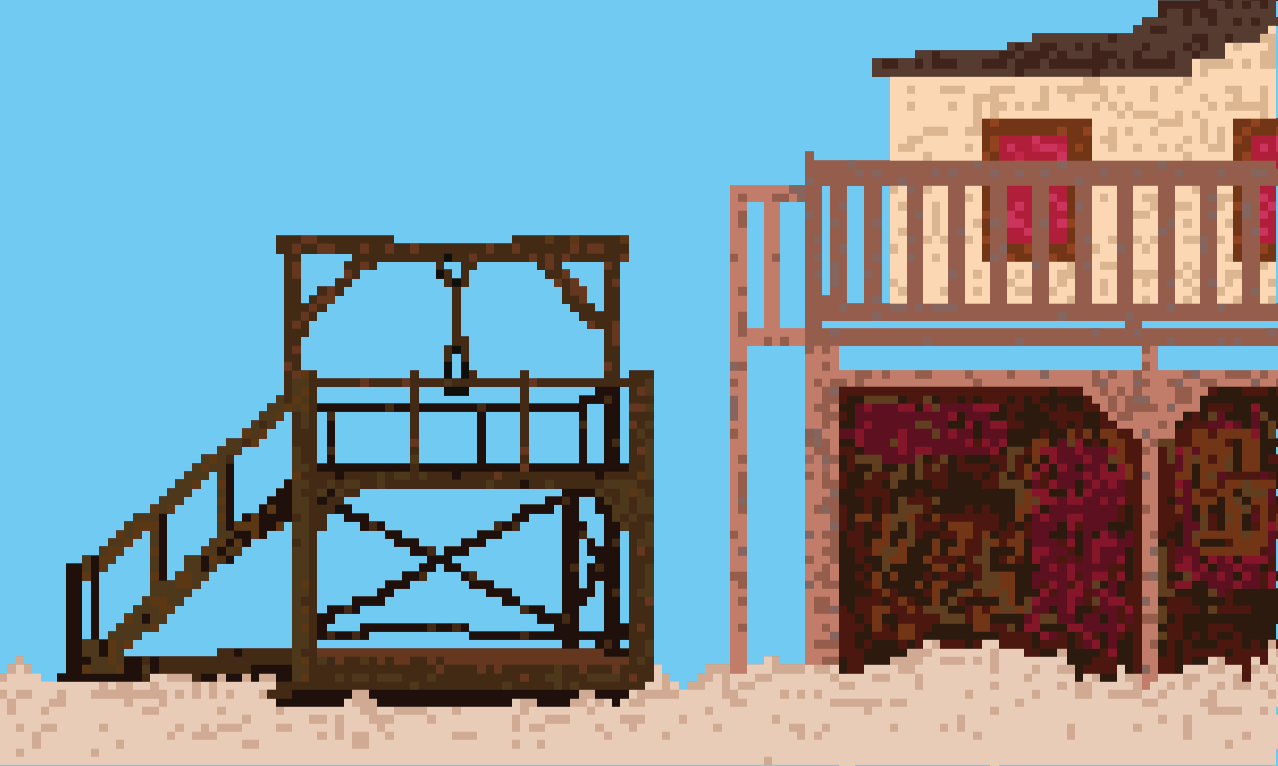
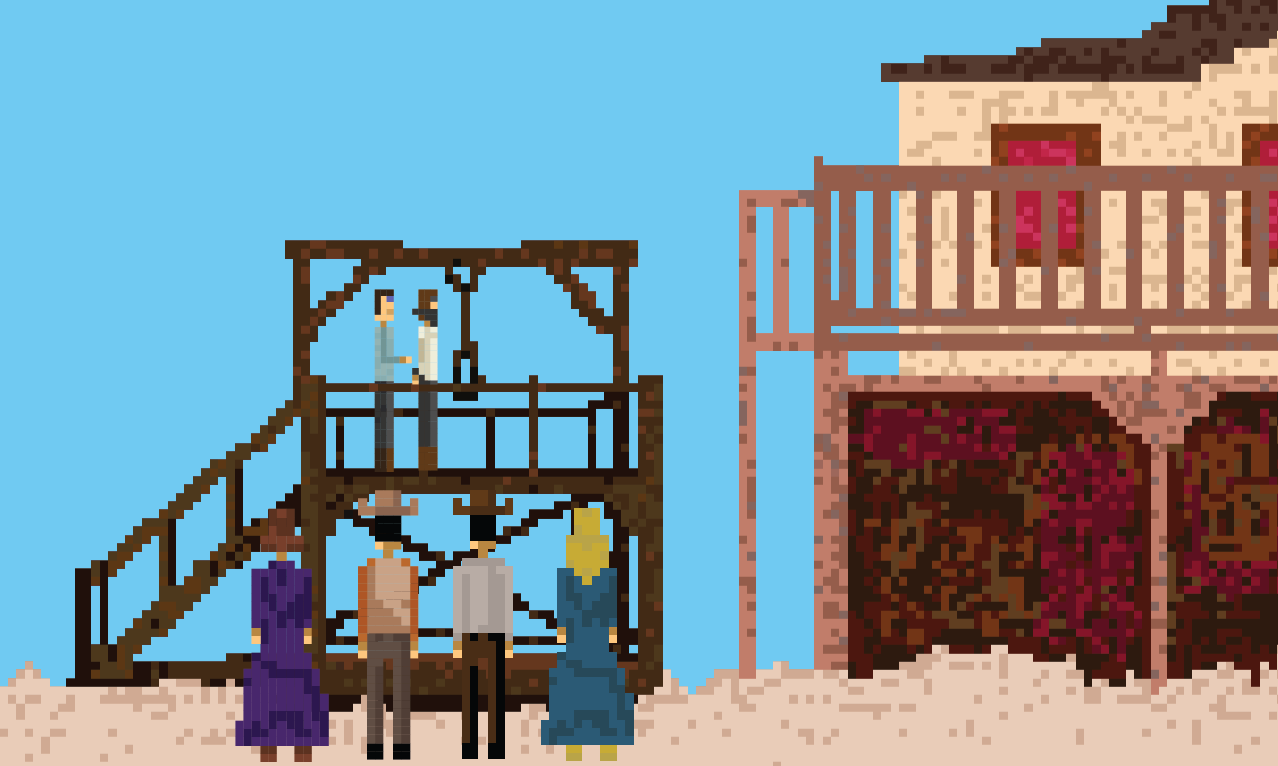
more
more

diff --git a/bank_inner.html b/bank_inner.html
@@ -2,17 +2,19 @@
 <div class="swiss screenview">
   <div class="background"><img src="backgrounds/bank_inner.png" alt="Inside the Bank Vault" class="bgimg"/></div>
   <div class="foreground">
+    <div class="layer"><img src="foregrounds/dan_quarterback_big.png" alt="dan_quarterback_big" class="dan_quarterback_big"/></div>
+    <div class="layer"><img src="foregrounds/pirate_front_big.png" alt="pirate_front_big" class="pirate_front_big"/></div>
   </div>
 </div>
 <div class="controlWrapper">
-  <p class="text">It's the Pirate!</p>
+  <p class="text">He is trying to steal from the vault!</p>
   <table class="control">
     <tr class="row1">
       <td class="1">Stop Him</td>
       <td class="4">Menu</td>
     </tr>
     <tr class="row2">
-      <td class="2">Let him go</td>
+      <td class="2">Pummel</td>
     </tr>
   </table>
 </div>
@@ -31,4 +33,9 @@
   	menuGen();
   	$( '.progress' ).html(progressArray);
   });           
+</script>
+<script>
+  if (charName === "Wendy") {
+  	$(".dan_quarterback_big").attr('src', 'foregrounds/wendy_quarterback_big.png');
+  }
 </script>

diff --git a/css/style.css b/css/style.css
@@ -618,6 +618,43 @@ img.cursor {
   margin-left: 300px;
   position: absolute;
 }
+.swiss .pirate_side_big {
+  position: absolute;
+  height: 300px;
+  margin-top: 150px;
+  margin-left: 230px;
+}
+.swiss .bankpeople {
+  position: absolute;
+  top: 10px;
+  width: 768px;
+}
+.swiss .pirate_front_big {
+  position: absolute;
+  height: 300px;
+  margin-top: 570px;
+  margin-left: 230px;
+}
+.swiss .max {
+  position: absolute;
+  height: 450px;
+  margin-top: 500px;
+  margin-left: 120px;
+}
+.renner {
+  position: absolute;
+  float: left;
+  height: 350px;
+  margin-top: 140px;
+  margin-left: 80px;
+}
+.novarese {
+  position: absolute;
+  float: left;
+  height: 350px;
+  margin-top: 140px;
+  margin-left: 80px;
+}
 .gill {
   height: 400px;
   position: absolute;
@@ -649,7 +686,7 @@ img.cursor {
 .port .spaceship {
   position: absolute;
   width: 100px;
-  margin-top: 495px;
+  margin-top: 520px;
   margin-left: 280px;
 }
 .port-go .spaceship {

diff --git a/swiss_designer.html b/swiss_designer.html
@@ -1,7 +1,9 @@
 
 <div class="swiss screenview">
-  <div class="background"><img src="backgrounds/gift.png" alt="Congratulations"/></div>
+  <div class="background"><img src="backgrounds/bank_inner.png" alt="Congratulations" class="bgimg"/></div>
   <div class="foreground">
+    <div class="layer"><img src="foregrounds/dan_quarterback_big.png" alt="dan_quarterback_big" class="dan_quarterback_big"/></div>
+    <div class="layer"><img src="foregrounds/max.png" alt="max" class="max"/></div>
   </div>
 </div>
 <div class="controlWrapper">
@@ -30,4 +32,9 @@
   	menuGen();
   	$( '.progress' ).html(progressArray);
   });           
+</script>
+<script>
+  if (charName === "Wendy") {
+  	$(".dan_quarterback_big").attr('src', 'foregrounds/wendy_quarterback_big.png');
+  }
 </script>

diff --git a/bank_outer.html b/bank_outer.html
@@ -1,7 +1,9 @@
 
 <div class="swiss screenview">
-  <div class="background"><img src="backgrounds/bank_outer.png" alt="In the bank" class="bgimg"/></div>
+  <div class="background"><img src="backgrounds/bank.png" alt="In the bank" class="bgimg"/></div>
   <div class="foreground">
+    <div class="layer"><img src="foregrounds/pirate_side_big.png" alt="pirate_side_big" class="pirate_side_big"/></div>
+    <div class="layer"><img src="foregrounds/bankpeople.png" alt="bankpeople" class="bankpeople"/></div>
   </div>
 </div>
 <div class="controlWrapper">
